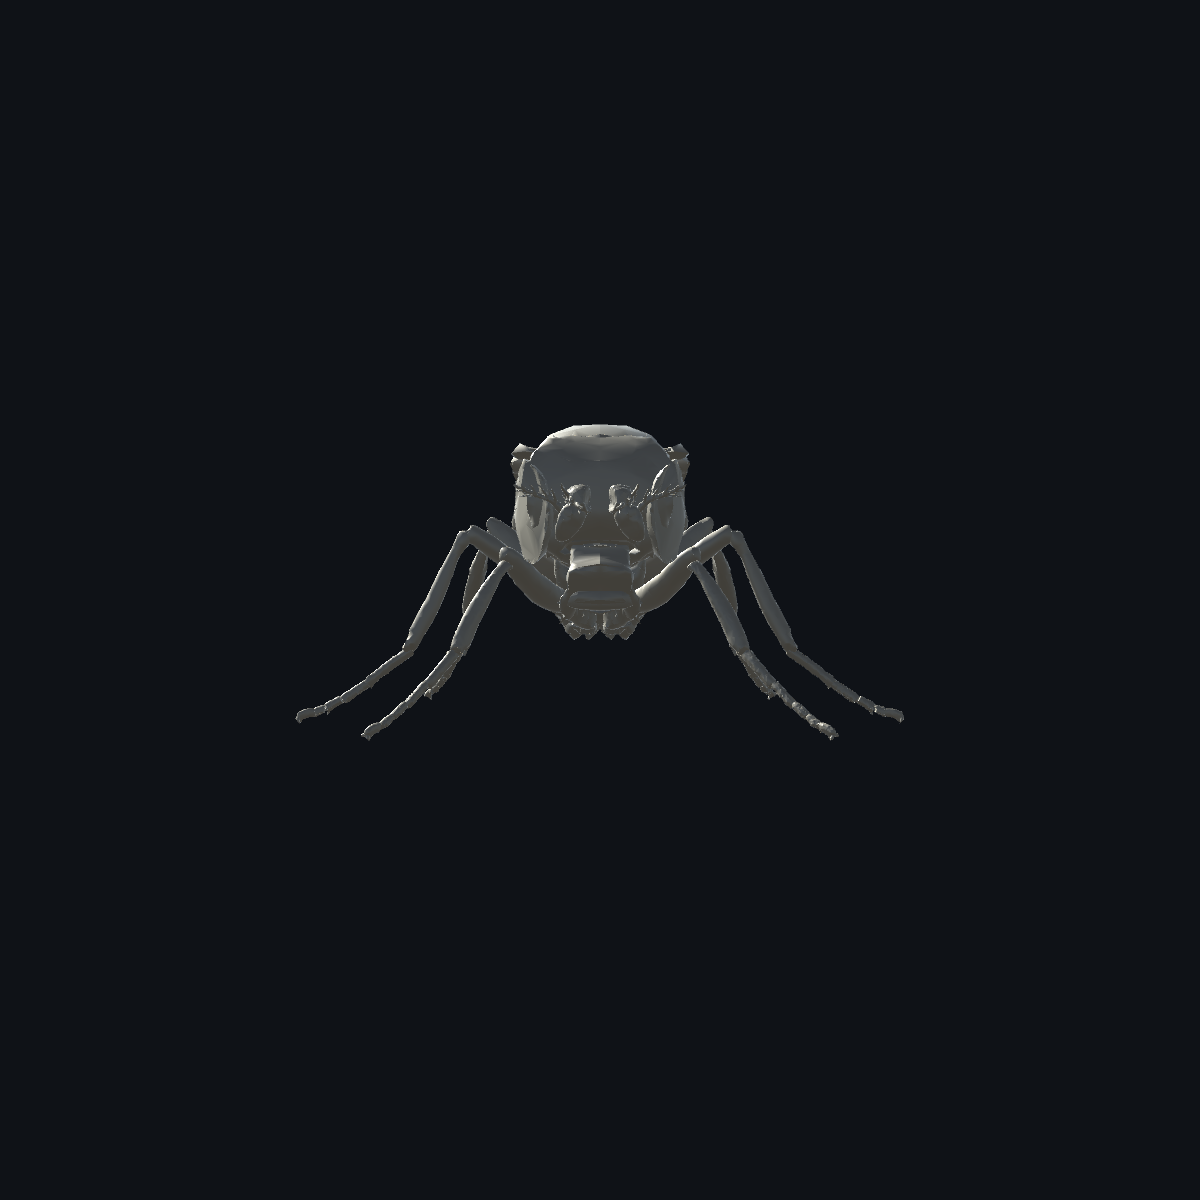
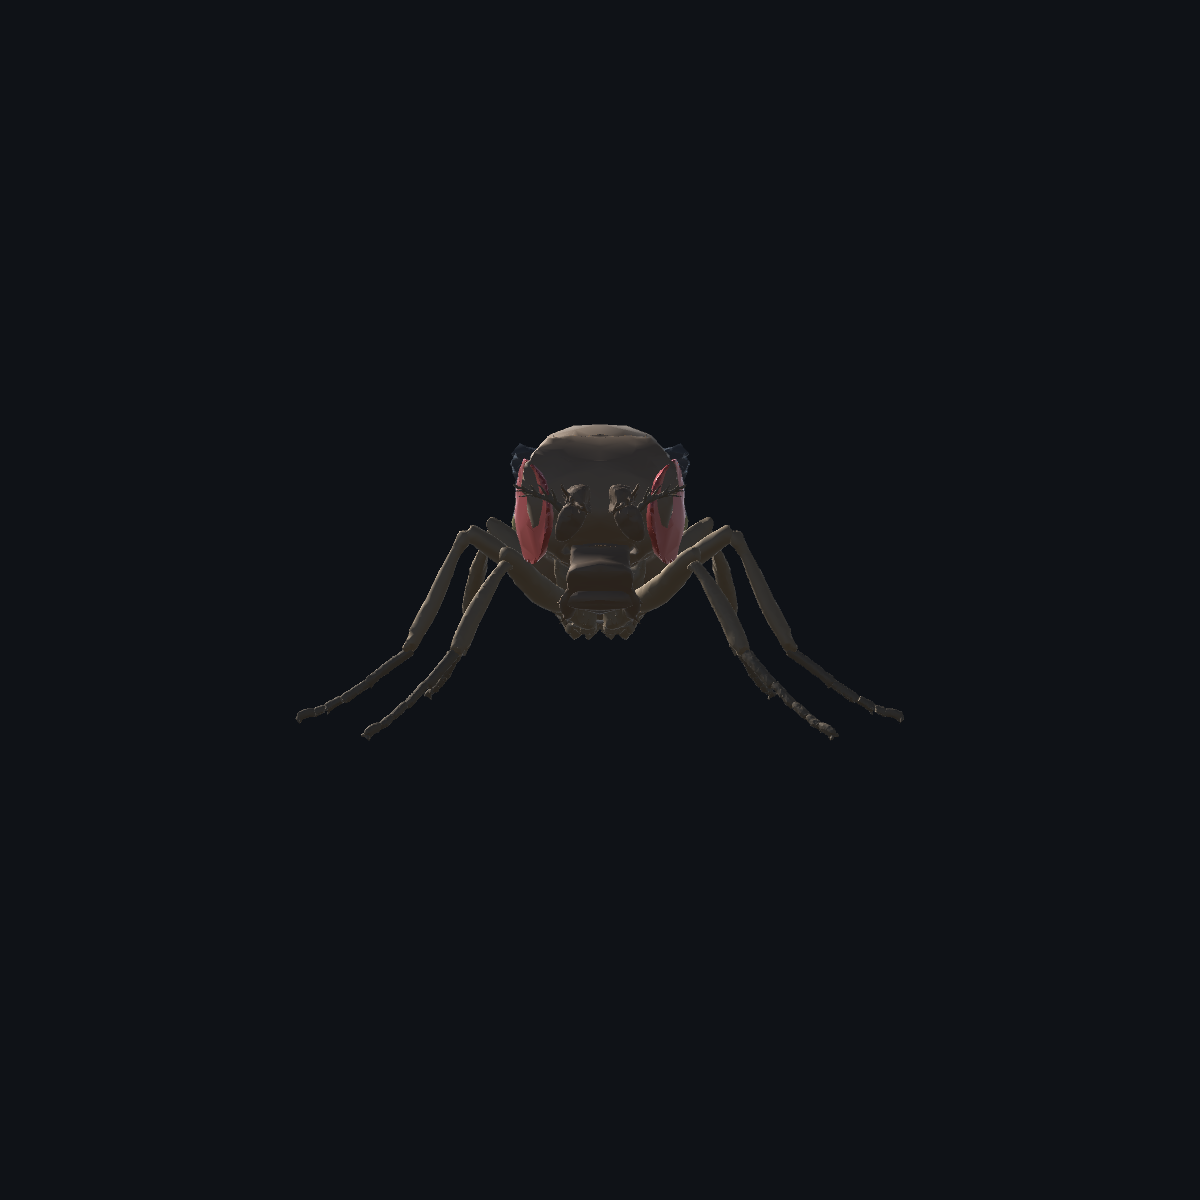
feat: shade and color the fly, with the color labeled as assumption
Duas coisas diferentes, de propriedade diferente.

NORMAIS -- vem da geometria. O exportador passa a gravar normal por vertice,
media das faces ponderada pela area. Sem elas a Unity deduzia normal com um
angulo de suavizacao fixo e, com as malhas decimadas do NeuroMechFly (~2.000
faces por peca), tudo saia facetado. E a mesma superficie que a fisica usa, so
sombreada direito.

COR -- e invencao nossa, e fica dito. O modelo NAO traz cor: os 69 geoms tem
rgba (0,5 0,5 0,5 1), cinza uniforme. FlyAppearance define um esquema de
Drosophila melanogaster selvagem -- cuticula ambar, olhos vermelhos e
brilhantes, asas translucidas, halteres amarelados, tarsos mais escuros --
escolhido a olho, nao medido.

Por isso o painel CORPO tem [Cor do modelo] [Cor realista] e imprime a
procedencia embaixo: DATA pro cinza que o modelo carrega, ASSUMPTION pro nosso.
Sem esse rotulo uma captura de tela vira "foto" de uma coisa que ninguem mediu.

Nenhuma cor aqui codifica grandeza. Nao ha contato, ativacao nem forca pintada
no corpo, e se um dia houver tem que ser em outro canal visual e rotulado --
senao vira grafico disfarcado de foto.

Um material por CATEGORIA (oito) em vez de um por geom (69).

Changed region(s): [[0.2775, 0.3392, 0.7708, 0.6167], [0.2467, 0.5858, 0.2775, 0.6167]]

diff --git a/unity/DrosobotLab/Assets/Scripts/Lab/FlyAppearance.cs b/unity/DrosobotLab/Assets/Scripts/Lab/FlyAppearance.cs
@@ -1,0 +1,140 @@
+// Cor da mosca na tela.
+//
+// ## Isto e ASSUMPTION, nao dado
+//
+// O modelo do NeuroMechFly nao traz cor: os 69 geoms tem `rgba` (0,5 0,5 0,5 1)
+// -- cinza uniforme. Tudo que este arquivo faz e aparencia inventada por nos
+// pra que a mosca pareca uma mosca.
+//
+// Por isso existem DOIS esquemas e o Lab diz qual esta ligado. `Modelo` mostra
+// o cinza que o modelo de fato carrega; `Realista` mostra o nosso. Nenhuma cor
+// aqui codifica grandeza nenhuma -- nao ha contato, ativacao nem forca sendo
+// pintada. Se um dia houver, tem que ser em outro canal visual e rotulado como
+// tal, senao vira grafico disfarcado de foto.
+//
+// A geometria continua sendo a do modelo compilado que a fisica roda. So o que
+// reflete luz e escolha nossa.
+
+using UnityEngine;
+
+namespace Drosobot.Lab
+{
+    public enum Aparencia
+    {
+        /// <summary>O cinza que o modelo carrega de verdade.</summary>
+        Modelo,
+        /// <summary>Cores inventadas por nos. Sem significado quantitativo.</summary>
+        Realista,
+    }
+
+    public static class FlyAppearance
+    {
+        // Cores de referencia: Drosophila melanogaster selvagem. Cuticula
+        // marrom-ambar, olhos vermelhos, asas quase transparentes com leve
+        // iridescencia. Escolhidas a olho, nao medidas.
+        private static readonly Color Cuticula = new Color(0.34f, 0.22f, 0.11f);
+        private static readonly Color Torax = new Color(0.42f, 0.29f, 0.16f);
+        private static readonly Color Abdomen = new Color(0.26f, 0.17f, 0.09f);
+        private static readonly Color Olho = new Color(0.62f, 0.09f, 0.06f);
+        private static readonly Color Asa = new Color(0.80f, 0.84f, 0.88f, 0.22f);
+        private static readonly Color Haltere = new Color(0.72f, 0.62f, 0.30f);
+        private static readonly Color Perna = new Color(0.45f, 0.33f, 0.18f);
+        private static readonly Color Tarso = new Color(0.30f, 0.22f, 0.12f);
+        private static readonly Color Neutro = new Color(0.5f, 0.5f, 0.5f);
+
+        /// <summary>
+        /// Em que categoria visual cai um segmento. Publico pra que quem pinta
+        /// possa reusar UM material por categoria em vez de um por segmento:
+        /// sao 68 segmentos e oito categorias.
+        /// </summary>
+        public static string Categoria(string segmento)
+        {
+            string s = segmento.ToLowerInvariant();
+            if (s.Contains("eye")) return "olho";
+            if (s.Contains("wing")) return "asa";
+            if (s.Contains("haltere")) return "haltere";
+            if (s.Contains("tarsus") || s.Contains("arista")) return "tarso";
+            if (s.Contains("coxa") || s.Contains("femur") || s.Contains("tibia"))
+                return "perna";
+            if (s.Contains("abdomen")) return "abdomen";
+            if (s.Contains("thorax")) return "torax";
+            return "cuticula";
+        }
+
+        /// <summary>Material pra um segmento, pelo nome dele.</summary>
+        public static Material Material(string segmento, Aparencia modo)
+        {
+            var sh = Shader.Find("Standard") ?? Shader.Find("Diffuse");
+            var m = new Material(sh);
+
+            if (modo == Aparencia.Modelo)
+            {
+                m.color = Neutro;
+                m.SetFloat("_Glossiness", 0.1f);
+                return m;
+            }
+
+            string s = Categoria(segmento);
+            if (s == "olho")
+            {
+                // olho composto: liso e brilhante, e o que mais denuncia uma
+                // mosca de verdade numa imagem
+                m.color = Olho;
+                m.SetFloat("_Glossiness", 0.75f);
+                m.SetFloat("_Metallic", 0.10f);
+            }
+            else if (s == "asa")
+            {
+                m.color = Asa;
+                m.SetFloat("_Glossiness", 0.85f);
+                Transparente(m);
+            }
+            else if (s == "haltere")
+            {
+                m.color = Haltere;
+                m.SetFloat("_Glossiness", 0.35f);
+            }
+            else if (s == "tarso")
+            {
+                m.color = Tarso;
+                m.SetFloat("_Glossiness", 0.25f);
+            }
+            else if (s == "perna")
+            {
+                m.color = Perna;
+                m.SetFloat("_Glossiness", 0.32f);
+            }
+            else if (s == "abdomen")
+            {
+                m.color = Abdomen;
+                m.SetFloat("_Glossiness", 0.28f);
+            }
+            else if (s == "torax")
+            {
+                m.color = Torax;
+                m.SetFloat("_Glossiness", 0.38f);
+            }
+            else
+            {
+                m.color = Cuticula;      // cabeca, rostro, antenas, o resto
+                m.SetFloat("_Glossiness", 0.30f);
+            }
+            return m;
+        }
+
+        // Transparencia no Standard do Built-in nao sai so mudando _Mode:
+        // precisa dos blend modes, de desligar o ZWrite E das keywords.
+        private static void Transparente(Material m)
+        {
+            m.SetFloat("_Mode", 3f);
+            m.SetFloat("_Surface", 1f);
+            m.SetInt("_SrcBlend", (int)UnityEngine.Rendering.BlendMode.SrcAlpha);
+            m.SetInt("_DstBlend", (int)UnityEngine.Rendering.BlendMode.OneMinusSrcAlpha);
+            m.SetInt("_ZWrite", 0);
+            m.DisableKeyword("_ALPHATEST_ON");
+            m.EnableKeyword("_ALPHABLEND_ON");
+            m.DisableKeyword("_ALPHAPREMULTIPLY_ON");
+            m.renderQueue = (int)UnityEngine.Rendering.RenderQueue.Transparent;
+        }
+    }
+}

diff --git a/unity/DrosobotLab/Assets/Scripts/Lab/FlyBody.cs b/unity/DrosobotLab/Assets/Scripts/Lab/FlyBody.cs
@@ -59,6 +59,9 @@ namespace Drosobot.Lab
         public float suavizacao = 60f;
         [Tooltip("Comprimento dos eixos locais no modo Eixos, em mm.")]
         public float tamanhoEixo = 0.35f;
+        [Tooltip("Esquema de cor. O modelo NAO traz cor -- os 69 geoms sao " +
+                 "cinza 0,5. `Realista` e invencao nossa; ver FlyAppearance.cs.")]
+        public Aparencia aparencia = Aparencia.Realista;
 
         private class Seg
         {
@@ -74,7 +77,11 @@ namespace Drosobot.Lab
         private readonly Dictionary<string, Seg> _porNome = new Dictionary<string, Seg>();
         private readonly List<Seg> _ordem = new List<Seg>();
         private Transform _raiz;
-        private Material _mat;
+        // um renderer por geom, com o nome do segmento: e o que permite trocar
+        // o esquema de cor sem remontar a mosca
+        private readonly List<KeyValuePair<string, Renderer>> _pintura =
+            new List<KeyValuePair<string, Renderer>>();
+        private Aparencia _aparenciaAplicada = (Aparencia)(-1);
         private GameObject _eixos;
         private bool _avisouRaiz;
 
@@ -93,9 +100,6 @@ namespace Drosobot.Lab
             var raizGo = new GameObject("NeuroMechFly");
             raizGo.transform.SetParent(transform, false);
             _raiz = raizGo.transform;
-
-            var sh = Shader.Find("Standard") ?? Shader.Find("Diffuse");
-            _mat = new Material(sh) { color = new Color(0.72f, 0.66f, 0.52f) };
 
             var doc = JObject.Parse(meta.text);
             foreach (var g in doc["geoms"])
@@ -125,13 +129,14 @@ namespace Drosobot.Lab
                 var mf = filho.AddComponent<MeshFilter>();
                 mf.sharedMesh = malha;
                 var mr = filho.AddComponent<MeshRenderer>();
-                mr.sharedMaterial = _mat;
                 mr.shadowCastingMode = UnityEngine.Rendering.ShadowCastingMode.Off;
+                _pintura.Add(new KeyValuePair<string, Renderer>(body, mr));
 
                 filho.transform.localPosition = MujocoFrame.Pos(Tres(g["pos"]));
                 filho.transform.localRotation = MujocoFrame.Quat(Quatro(g["quat_wxyz"]));
             }
 
+            AplicaAparencia();
             LeBindPose(doc["pose_repouso"] as JObject);
             AplicaBindPose();   // nasce em repouso; a telemetria assume depois
 
@@ -225,8 +230,34 @@ namespace Drosobot.Lab
             poseRecebida = casou > 0;
         }
 
+        /// <summary>
+        /// Pinta cada geom pelo nome do segmento. E APARENCIA: o modelo nao
+        /// traz cor e nenhuma destas cores codifica grandeza. Ver
+        /// FlyAppearance.cs.
+        /// </summary>
+        public void AplicaAparencia()
+        {
+            if (_aparenciaAplicada == aparencia) return;
+            _aparenciaAplicada = aparencia;
+            // um material por CATEGORIA, nao por geom: sao 69 geoms e oito
+            // categorias, e 69 materiais iguais so gastariam draw call
+            var cache = new Dictionary<string, Material>();
+            foreach (var kv in _pintura)
+            {
+                string cat = FlyAppearance.Categoria(kv.Key);
+                if (!cache.TryGetValue(cat, out var mat))
+                {
+                    mat = FlyAppearance.Material(kv.Key, aparencia);
+                    cache[cat] = mat;
+                }
+                kv.Value.sharedMaterial = mat;
+            }
+        }
+
         void Update()
         {
+            AplicaAparencia();   // barato: sai na primeira linha se nao mudou
+
             // A pose que chega e de MUNDO. Se alguem mover a raiz, cada
             // segmento sai deslocado pelo valor dela -- o bug do offset
             // duplicado. Avisa uma vez, alto, em vez de deixar a mosca

diff --git a/tools/export_fly_mesh.py b/tools/export_fly_mesh.py
@@ -44,7 +44,14 @@ sys.path.insert(0, str(RAIZ / "sim"))
 
 def escreve_obj(caminho: Path, vertices: np.ndarray, faces: np.ndarray,
                 nome: str) -> None:
-    """OBJ minimo: so vertices e faces. Sem normal, sem UV -- nao precisamos.
+    """OBJ com vertices, normais e faces. Sem UV -- nao ha textura.
+
+    As NORMAIS sao calculadas aqui, por media ponderada pela area dos
+    triangulos que tocam cada vertice. Sem elas a Unity deduz normais com um
+    angulo de suavizacao fixo, e como as malhas do NeuroMechFly sao decimadas
+    (~2000 faces por peca) o resultado fica facetado. A normal e derivada da
+    GEOMETRIA -- nao e aparencia inventada, e a mesma superficie que a fisica
+    usa, so que sombreada direito.
 
     Os VERTICES saem ja em eixos da Unity (Y pra cima), trocando Y e Z como
     `MujocoFrame.Pos` faz. Sem isso a malha fica em eixos do MuJoCo pendurada
@@ -57,13 +64,31 @@ def escreve_obj(caminho: Path, vertices: np.ndarray, faces: np.ndarray,
     apontando pra fora -- senao o backface culling mostra o interior da malha e
     o corpo aparece esburacado.
     """
+    # vertices e faces ja no espaco da Unity, pra que a normal saia coerente
+    vu = vertices[:, [0, 2, 1]]
+    fu = faces[:, [0, 2, 1]]
+
+    # normal de cada face, com modulo proporcional a area (o produto vetorial
+    # ja da 2x a area), somada nos vertices: a ponderacao por area evita que
+    # um triangulo minusculo puxe a normal tanto quanto um grande
+    a, b, c = vu[fu[:, 0]], vu[fu[:, 1]], vu[fu[:, 2]]
+    nf = np.cross(b - a, c - a)
+    nv = np.zeros_like(vu)
+    for k in range(3):
+        np.add.at(nv, fu[:, k], nf)
+    comp = np.linalg.norm(nv, axis=1, keepdims=True)
+    nv = np.divide(nv, comp, out=np.zeros_like(nv), where=comp > 1e-12)
+
     linhas = [f"# {nome} -- NeuroMechFly, exportado do modelo compilado",
               f"# {len(vertices)} vertices, {len(faces)} faces",
               "# vertices em eixos da Unity (Y pra cima); winding invertido",
+              "# normais por media ponderada pela area, calculadas na exportacao",
               f"o {nome}"]
-    linhas += [f"v {v[0]:.6f} {v[2]:.6f} {v[1]:.6f}" for v in vertices]
-    # OBJ indexa a partir de 1
-    linhas += [f"f {f[0]+1} {f[2]+1} {f[1]+1}" for f in faces]
+    linhas += [f"v {v[0]:.6f} {v[1]:.6f} {v[2]:.6f}" for v in vu]
+    linhas += [f"vn {n[0]:.6f} {n[1]:.6f} {n[2]:.6f}" for n in nv]
+    # OBJ indexa a partir de 1; normal por vertice, entao v//vn com o mesmo indice
+    linhas += [f"f {f[0]+1}//{f[0]+1} {f[1]+1}//{f[1]+1} {f[2]+1}//{f[2]+1}"
+               for f in fu]
     caminho.write_text("\n".join(linhas) + "\n", encoding="utf-8")
 
 

diff --git a/unity/DrosobotLab/Assets/Scripts/Lab/LabBootstrap.cs b/unity/DrosobotLab/Assets/Scripts/Lab/LabBootstrap.cs
@@ -790,6 +790,33 @@ namespace Drosobot.Lab
                     orb.Focar(_mosca.Extensao());
             });
             _pCorpo.Texto("arrastar gira   scroll aproxima   meio empurra", _mono);
+
+            // --- aparencia ---
+            // O modelo nao traz cor: os 69 geoms sao cinza 0,5. O esquema
+            // realista e invencao nossa e tem que aparecer como tal, senao uma
+            // captura de tela vira "foto" de uma coisa que ninguem mediu.
+            _pCorpo.Espacador();
+            _pCorpo.Desenho(24f, r =>
+            {
+                float w = (r.width - 2f) / 2f;
+                for (int i = 0; i < 2; i++)
+                {
+                    var b = new Rect(r.x + i * (w + 2f), r.y, w, 22f);
+                    var antes = GUI.color;
+                    GUI.color = (int)_mosca.aparencia == i
+                        ? new Color(0.45f, 0.80f, 1.00f)
+                        : new Color(0.78f, 0.80f, 0.84f);
+                    if (GUI.Button(b, i == 0 ? "Cor do modelo" : "Cor realista"))
+                        _mosca.aparencia = (Aparencia)i;
+                    GUI.color = antes;
+                }
+            });
+            _pCorpo.Texto(_mosca.aparencia == Aparencia.Modelo
+                    ? "  cinza 0,5 -- a unica cor que o modelo carrega"
+                    : "  cor inventada por nos; nao codifica grandeza nenhuma",
+                _mono,
+                ProvenanceUtil.Color(_mosca.aparencia == Aparencia.Modelo
+                                     ? Provenance.Data : Provenance.Assumption));
             _pCorpo.Texto($"{_mosca.segmentosMontados} segmentos   " +
                           $"{_mosca.segmentosRecebidos} na pose", _mono);
         }

diff --git a/docs/UNITY_BODY_COORDINATES.md b/docs/UNITY_BODY_COORDINATES.md
@@ -192,8 +192,20 @@ Saída em `docs/images/fly_bindpose_{perspectiva,lateral,topo,frente}.png`. A
 referência de comparação é o render do próprio MuJoCo pelo `mujoco.Renderer`, do
 mesmo modelo compilado.
 
-O facetado que aparece nas imagens é esperado: o OBJ leva só vértices e faces,
-sem normais, então a Unity calcula normais planas por face.
+O OBJ leva normais por vértice, calculadas na exportação por média das faces
+ponderada pela área. Sem elas a Unity deduz normais com um ângulo de suavização
+fixo e, como as malhas do NeuroMechFly são decimadas (~2.000 faces por peça), o
+resultado ficava facetado. A normal vem da **geometria**, não é aparência
+inventada — é a mesma superfície que a física usa, só sombreada direito.
+
+### Cor é outra coisa
+
+O modelo **não traz cor**: os 69 geoms têm `rgba` (0,5 0,5 0,5 1), cinza
+uniforme. O esquema realista das imagens (cutícula âmbar, olhos vermelhos, asas
+translúcidas) é invenção nossa, mora em `FlyAppearance.cs` e está marcado como
+ASSUMPTION no painel CORPO, que também tem o botão pra voltar ao cinza do
+modelo. Nenhuma dessas cores codifica grandeza: não há contato, ativação nem
+força sendo pintada no corpo.
 
 ## Eixos desenhados no modo Eixos
 
